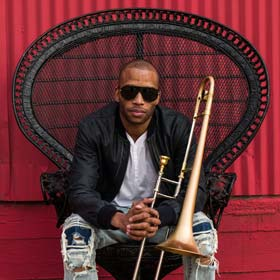
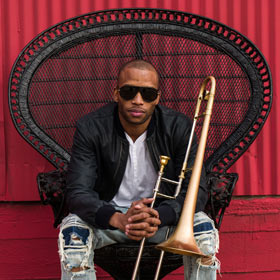
updated image

diff --git a/concerts.html b/concerts.html
@@ -53,7 +53,7 @@ published: true
 
 <br />
 
-<!--<h1 class="text-center green">SNEAK PEEK!</h1></p>-->
+<h1 class="text-center green">SNEAK PEEK!</h1></p>
 
 
 <div id="concertcontent" class="container-fluid container-fluid-no-padding">
@@ -150,7 +150,7 @@ published: true
 			<!-- End Concert -->
 
 			<!-- Begin Concert -->
-			<div class="infowrapper hide">
+			<div class="infowrapper">
 				<div class="col-xs-12 col-sm-6 col-md-4 col-lg-3 concertwrapper">
 
 					<a href="#">
@@ -265,7 +265,7 @@ published: true
 
 					<a href="#">
 						<div class="bandpic hover">
-							<img src="/images/concert-images/2018/lost-80s-live.jpg" alt="Trombone Shorty's Voodoo Threauxdown" title="Trombone Shorty's Voodoo Threauxdown">
+							<img src="/images/concert-images/2018/trombone-shorty.jpg" alt="Trombone Shorty's Voodoo Threauxdown" title="Trombone Shorty's Voodoo Threauxdown">
 
 							<div class="soldout hide">
 								<img src="/images/concert-images/SoldOut.png">
